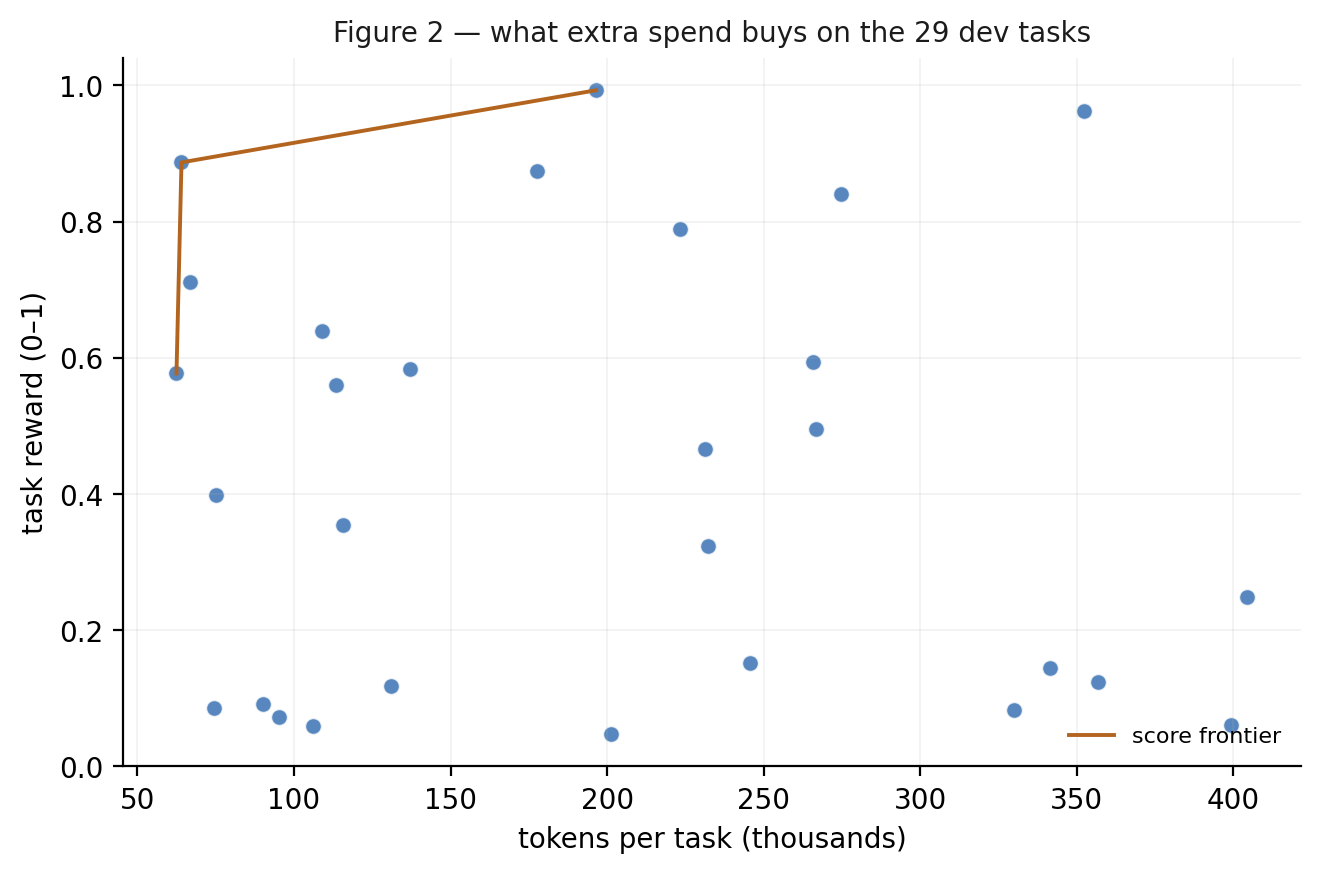
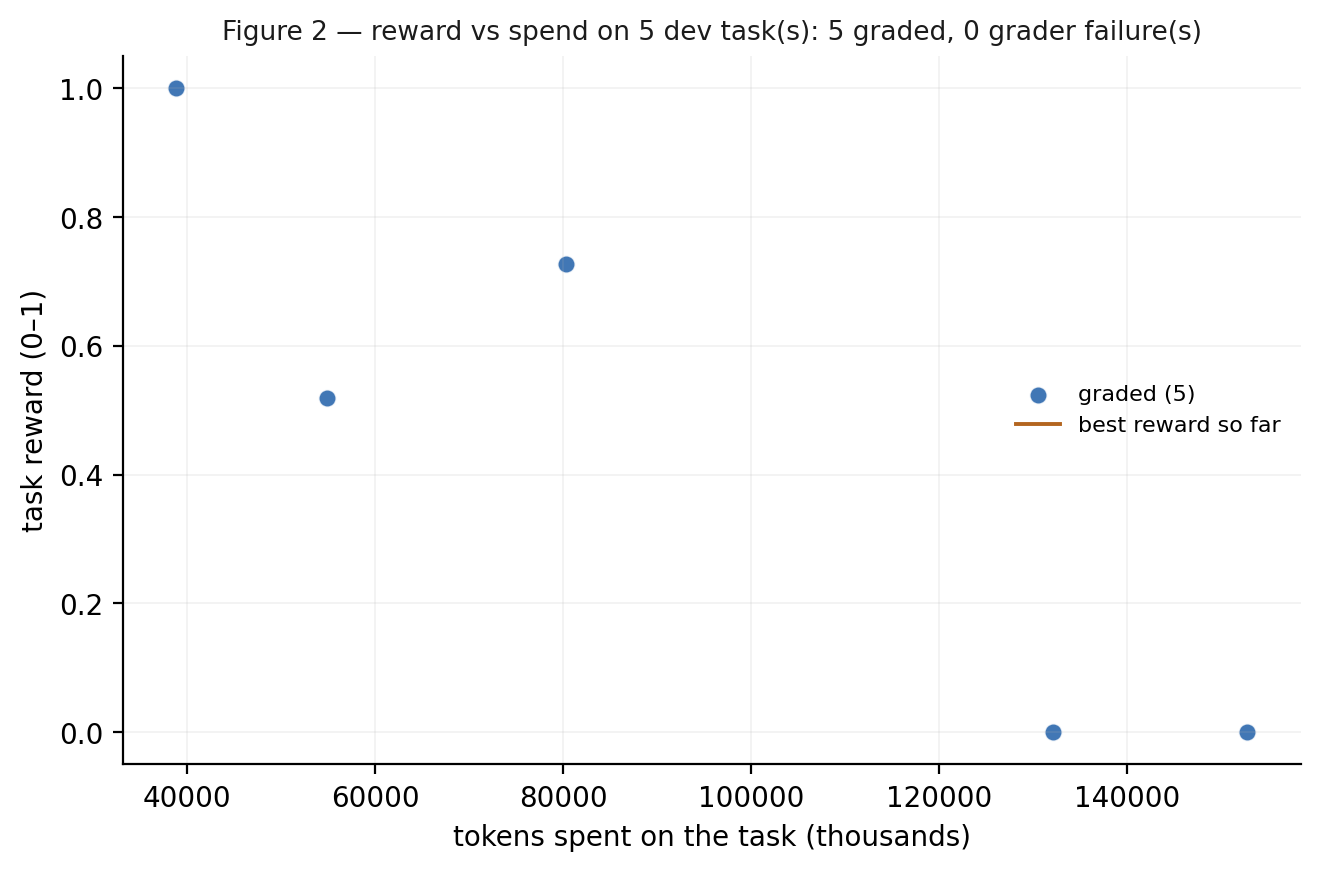
harness: cap steps and tokens per agent step; honour the task budget on absolute time

diff --git a/serve.py b/serve.py
@@ -30,6 +30,7 @@ not to modify any files.
 import asyncio
 import json
 import os
+import time
 import re
 
 import deliverable_check
@@ -52,7 +53,7 @@ WRAP_UP = {
     "role": "user",
     "content": "Time is up for this step. Stop and reply with your answer.",
 }
-RESULT_CHARS = 20_000  # a longer tool result loses its middle
+RESULT_CHARS = 12_000  # a longer tool result loses its middle
 # Seconds between retries once the SDK's own quick retries are exhausted.
 RETRY_WAITS = (5, 15, 30, 60, 120)
 # How endpoints word a 400 saying the conversation no longer fits the context
@@ -82,6 +83,10 @@ CHECK_SHARE = 0.25
 # wrap-up
 MIN_STEP_SEC = 120
 MAX_FIX_ROUNDS = 2
+# Caps that bound one agent step. Every tool round resends the history, so a
+# step that keeps calling tools costs superlinearly; these stop it.
+MAX_STEPS = int(os.environ.get("PLE_MAX_STEPS", "45"))
+TOKEN_BUDGET = int(os.environ.get("PLE_TOKEN_BUDGET", "12000000"))
 # Optional wall-clock budget per task, in seconds. Unset uses the task's
 # own limit; a value caps how long the harness spends before wrapping up,
 # which lets a single CI job cover many dev tasks.
@@ -335,7 +340,8 @@ def conversation(system, session, prompt):
   ]
 
 
-async def agent(session, messages, tools, until, final=False, registry=None):
+async def agent(session, messages, tools, until, final=False, registry=None,
+                deadline=None):
   """Runs the tool-calling loop on `messages` until the model answers.
 
   Prompts the model to wrap up immediately once fewer than `until` seconds
@@ -349,15 +355,24 @@ async def agent(session, messages, tools, until, final=False, registry=None):
     until: Remaining task time threshold (in seconds) at which this step wraps
       up.
     final: Whether to record responses in `session.final_message`.
+    deadline: Absolute `time.monotonic()` value at which this step must stop,
+      used with a capped task budget; `None` follows the task clock only.
 
   Returns:
     The final text response produced by this agent step.
   """
   # head: the start of an answer cut off at the output limit
   nudges, head, waits = 0, "", iter(RETRY_WAITS)
+  steps, spent = 0, 0
   while True:
     left = session.time_left()  # None when the task has no time limit
-    wrap_up = left is not None and left < until
+    if deadline is not None:
+      remaining = deadline - time.monotonic()
+      left = remaining if left is None else min(left, remaining)
+    # A step that has used its rounds or its token allowance wraps up now, on
+    # the same path the clock uses, so it still leaves a written deliverable.
+    exhausted = steps >= MAX_STEPS or spent >= TOKEN_BUDGET
+    wrap_up = exhausted or (left is not None and left < until)
     if wrap_up and messages[-1:] != [WRAP_UP]:  # asked once, also on a retry
       messages.append(dict(WRAP_UP))
     # A call still running when the wrap-up starts is stopped. The wrap-up call
@@ -391,6 +406,7 @@ async def agent(session, messages, tools, until, final=False, registry=None):
       raise
     waits = iter(RETRY_WAITS)
     if reply.usage:
+      spent += reply.usage.prompt_tokens + reply.usage.completion_tokens
       details = getattr(reply.usage, "prompt_tokens_details", None)
       await session.usage(
           MODEL,
@@ -427,6 +443,7 @@ async def agent(session, messages, tools, until, final=False, registry=None):
       })
       continue
     nudges, head = 0, ""
+    steps += 1
     messages.append(turn)
     for call in turn["tool_calls"]:
       await session.log(
@@ -438,8 +455,7 @@ async def agent(session, messages, tools, until, final=False, registry=None):
       )
     if left is not None:
       messages[-1]["content"] += (
-          f"\n[{int((session.time_left() - until) // 60)} minutes left for this"
-          " step]"
+          f"\n[{int((left - until) // 60)} minutes left for this step]"
       )
 
 
@@ -455,6 +471,9 @@ async def solve(session):
   total = session.time_left()
   if TASK_BUDGET_SEC and (total is None or total > TASK_BUDGET_SEC):
     total = TASK_BUDGET_SEC
+  # The task clock may be hours long; a capped budget also needs an absolute
+  # deadline, because the task clock alone never reaches the smaller cap.
+  deadline = None if total is None else time.monotonic() + total
 
   def until(share):
     """Computes the remaining seconds when `share` of total task time is left.
@@ -495,11 +514,13 @@ async def solve(session):
       check_tools,
       until(1 - PLAN_SHARE),
       registry=registry,
+      deadline=deadline,
   )
   await session.log(f"plan: {plan[:1000]}")
   work = conversation(WORKER, session, f"{task}\n\n## Plan\n{plan}")
   summary = await agent(
-      session, work, work_tools, until(CHECK_SHARE), final=True, registry=registry
+      session, work, work_tools, until(CHECK_SHARE), final=True, registry=registry,
+      deadline=deadline,
   )
   for _ in range(MAX_FIX_ROUNDS):
     if not time_for(until(CHECK_SHARE / 2)):
@@ -516,6 +537,7 @@ async def solve(session):
         check_tools,
         until(CHECK_SHARE / 2),
         registry=registry,
+        deadline=deadline,
     )
     await session.log(f"verifier: {verdict[:1000]}")
     # PASS alone in any letter case (Markdown emphasis and a full stop aside),

diff --git a/writeup/make_figures.py b/writeup/make_figures.py
@@ -63,6 +63,13 @@ def disciplines(root):
   return mapping
 
 
+def _as_tokens(value):
+  """A run may record tokens as a number or as a per-kind dict."""
+  if isinstance(value, dict):
+    return sum(float(v or 0.0) for v in value.values())
+  return float(value or 0.0)
+
+
 def tasks_from_run(run_dir):
   """Returns {task: {"reward", "status", "tokens"}} from a run directory."""
   data = _read(pathlib.Path(run_dir) / "results.json")
@@ -83,7 +90,7 @@ def tasks_from_run(run_dir):
     out[name] = {
         "reward": float(row.get("reward") or row.get("score") or 0.0),
         "status": str(row.get("status") or row.get("ended") or "ok"),
-        "tokens": float(tokens or 0.0),
+        "tokens": _as_tokens(tokens),
     }
   return out
 
@@ -146,26 +153,45 @@ def figure_architecture(out):
 
 
 def figure_score_cost(tasks, out):
-  pts = [(t["tokens"], t["reward"], name) for name, t in tasks.items() if t["tokens"] > 0]
+  """Reward against spend, split by whether the task was actually graded.
+
+  A task the evaluator could not grade sits at reward 0 for real spend, which
+  would read as "expensive and useless". Plotting those apart keeps the figure
+  honest about which zeros are the harness's and which are the environment's.
+  """
+  graded = [(t["tokens"], t["reward"], name) for name, t in tasks.items()
+            if t["tokens"] > 0 and t["status"] == "ok"]
+  ungraded = [(t["tokens"], t["reward"], name) for name, t in tasks.items()
+              if t["tokens"] > 0 and t["status"] != "ok"]
   fig, ax = plt.subplots(figsize=(7.6, 4.6), dpi=200)
-  if not pts:
-    ax.text(0.5, 0.5, "no token usage recorded", ha="center", va="center", transform=ax.transAxes)
+  if not graded and not ungraded:
+    ax.text(0.5, 0.5, "no token usage recorded", ha="center", va="center",
+            transform=ax.transAxes)
   else:
-    xs = [p[0] / 1000.0 for p in pts]
-    ys = [p[1] for p in pts]
-    ax.scatter(xs, ys, s=34, color=ACCENT, alpha=0.75, edgecolor="white", linewidth=0.6)
-    order = sorted(range(len(xs)), key=lambda i: xs[i])
-    best, frontier = -1.0, []
-    for i in order:
-      if ys[i] > best:
-        best = ys[i]
-        frontier.append(i)
-    ax.plot([xs[i] for i in frontier], [ys[i] for i in frontier], color=WARN, lw=1.4,
-            label="score frontier")
-    ax.legend(frameon=False, fontsize=8, loc="lower right")
-  ax.set_xlabel("tokens per task (thousands)")
+    if graded:
+      ax.scatter([p[0] / 1000.0 for p in graded], [p[1] for p in graded],
+                 s=40, color=ACCENT, alpha=0.85, edgecolor="white", linewidth=0.6,
+                 label=f"graded ({len(graded)})")
+    if ungraded:
+      ax.scatter([p[0] / 1000.0 for p in ungraded], [p[1] for p in ungraded],
+                 s=40, color="#b0b7c3", alpha=0.9, edgecolor="white", linewidth=0.6,
+                 marker="s", label=f"grader failed ({len(ungraded)})")
+    if graded:
+      pts = sorted(graded, key=lambda p: p[0])
+      best, frontier = -1.0, []
+      for point in pts:
+        if point[1] > best:
+          best = point[1]
+          frontier.append(point)
+      ax.plot([p[0] / 1000.0 for p in frontier], [p[1] for p in frontier],
+              color=WARN, lw=1.4, label="best reward so far")
+    ax.legend(frameon=False, fontsize=8, loc="center right")
+  ax.set_xlabel("tokens spent on the task (thousands)")
   ax.set_ylabel("task reward (0–1)")
-  ax.set_title("Figure 2 — what extra spend buys on the 29 dev tasks", fontsize=10, color=INK)
+  n = len(graded) + len(ungraded)
+  ax.set_title(f"Figure 2 — reward vs spend on {n} dev task(s): "
+               f"{len(graded)} graded, {len(ungraded)} grader failure(s)",
+               fontsize=9.5, color=INK)
   ax.spines[["top", "right"]].set_visible(False)
   ax.grid(alpha=0.18, linewidth=0.6)
   fig.savefig(out / "fig2_score_cost.png", bbox_inches="tight", facecolor="white")

diff --git a/scripts/fill_writeup.py b/scripts/fill_writeup.py
@@ -60,18 +60,21 @@ def run_usage(root):
     data = load_json(run / "results.json")
     if not data:
       continue
-    usage = {}
+    usage, seconds = {}, {}
     for row in data.get("tasks") or []:
-      name = row.get("task") or row.get("id")
+      name = row.get("id") or row.get("task")
       if not name:
         continue
-      u = row.get("usage") or {}
-      tokens = row.get("tokens") or u.get("total_tokens") or (
-          (u.get("prompt_tokens") or 0) + (u.get("completion_tokens") or 0))
-      usage[name] = float(tokens or 0)
+      raw_tokens = row.get("tokens")
+      if isinstance(raw_tokens, dict):
+        tokens = sum(float(v or 0) for v in raw_tokens.values())
+      else:
+        tokens = float(raw_tokens or 0)
+      usage[name] = tokens
+      seconds[name] = float(row.get("seconds") or 0)
     if usage:
-      return usage
-  return {}
+      return usage, seconds
+  return {}, {}
 
 
 def main():
@@ -85,7 +88,7 @@ def main():
   if not rows:
     print("no artifacts/manifest.json with tasks; nothing to fill")
     return 1
-  usage = run_usage(root)
+  usage, seconds = run_usage(root)
   total = len(rows)
   scored = [r for r in rows if r[1] > 0]
   mean_reward = sum(r[1] for r in rows) / total
@@ -93,6 +96,8 @@ def main():
   tokens = [usage.get(r[0], 0.0) for r in rows]
   tok_total = sum(tokens)
   tok_mean = tok_total / max(1, len([t for t in tokens if t > 0]))
+  secs = [seconds.get(r[0], 0.0) for r in rows]
+  secs_total = sum(secs)
 
   values = {
       "DEV_SCORE": f"{mean_reward:.3f}",
@@ -100,7 +105,8 @@ def main():
       "HIGH": str(len(high)),
       "COST_USD": f"{tok_total / 1e6:.2f}M tokens",
       "TOKENS_PER_TASK": f"{tok_mean / 1000:.0f}k",
-      "WALL_CLOCK": f"{len(rows)} tasks in one CI job",
+      "WALL_CLOCK": (f"{secs_total / 3600:.1f} h of task time across {total} tasks"
+                     if secs_total else f"{total} tasks in one CI job"),
   }
 
   writeup = root / "writeup" / "WRITEUP.md"
